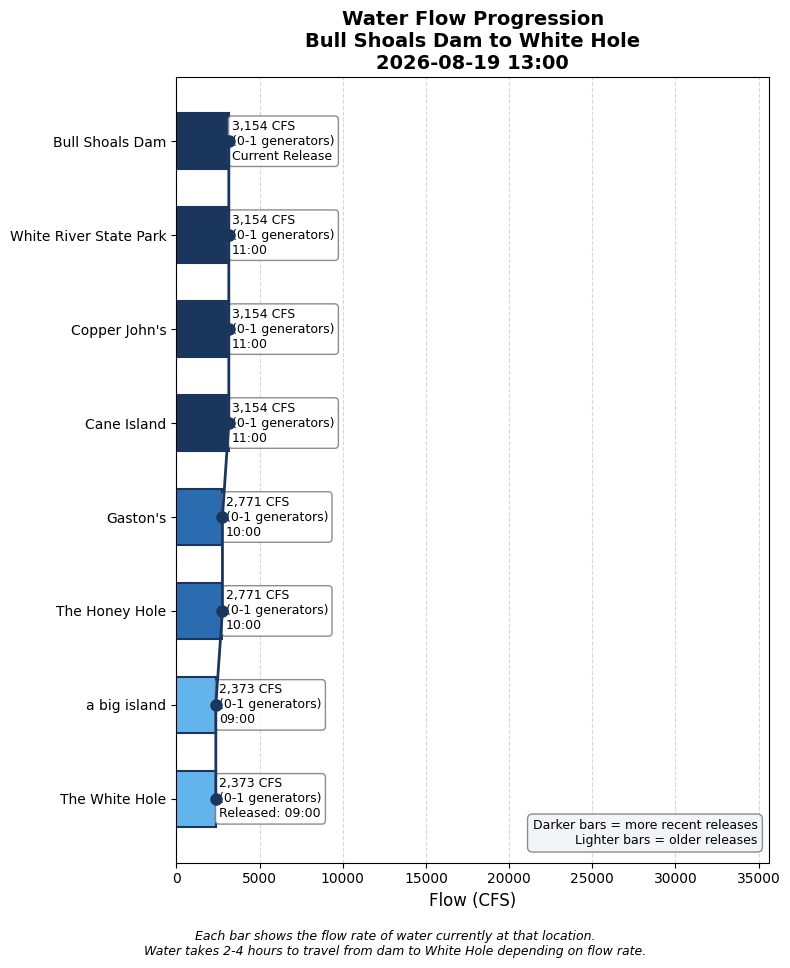
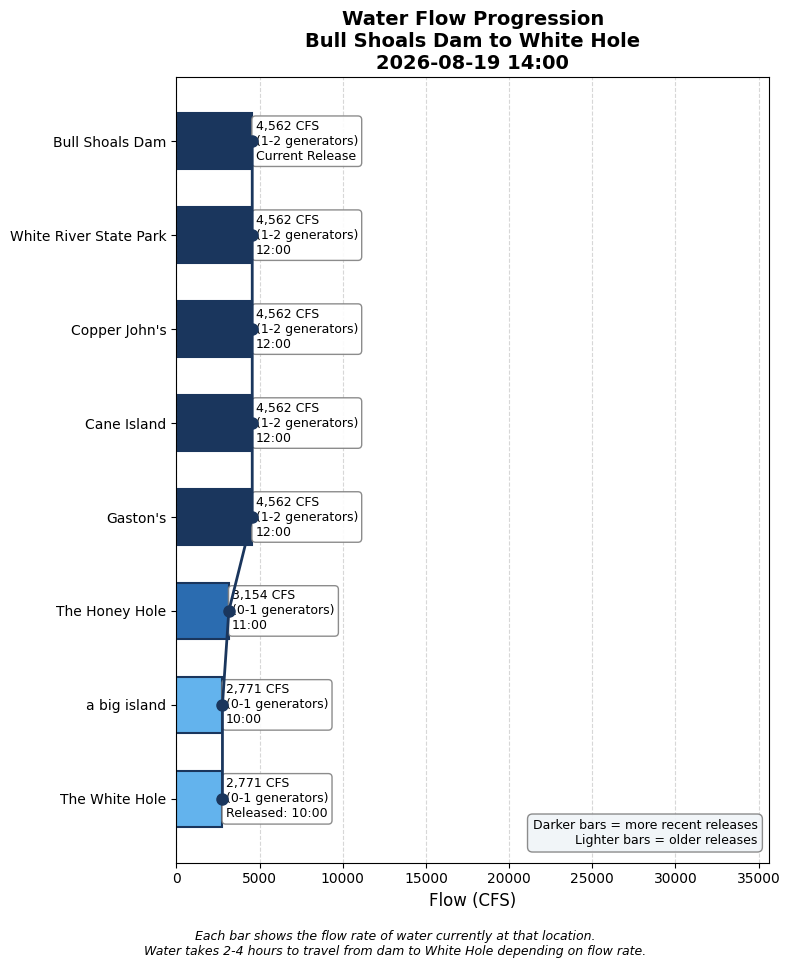
Update water conditions 2026-08-19 14:00

Changed region(s): [[0.2127, 0.093, 0.4557, 0.8678]]

diff --git a/white_hole_conditions.html b/white_hole_conditions.html
@@ -3,7 +3,7 @@
 <head>
     <meta charset="UTF-8">
     <meta name="viewport" content="width=device-width, initial-scale=1.0">
-    <title>White Hole Conditions - 2026-08-19 13:00</title>
+    <title>White Hole Conditions - 2026-08-19 14:00</title>
     <style>
         body {
             font-family: -apple-system, BlinkMacSystemFont, 'Segoe UI', Roboto, sans-serif;
@@ -148,19 +148,19 @@
 </head>
 <body>
     <h1>White Hole Current Conditions</h1>
-    <p class="subtitle">Wednesday, August 19, 2026 at 01:00 PM</p>
+    <p class="subtitle">Wednesday, August 19, 2026 at 02:00 PM</p>
 
     <!-- HEADLINE BANNER -->
     <div class="headline-banner">
         <div class="main-status">⚠ MARGINAL WADING — Use caution</div>
         <div class="forecast-status">⏱ RISING WATER arriving in ~43 minutes</div>
-        <div class="forecast-status" style="margin-top: 5px; opacity: 0.9;">📅 HIGH WATER SCHEDULED — ~3:54 PM</div>
+        <div class="forecast-status" style="margin-top: 5px; opacity: 0.9;">📅 HIGH WATER SCHEDULED — ~4:29 PM</div>
     </div>
 
     <!-- CURRENT CONDITIONS -->
     <div class="current-conditions">
         <h3>Current Conditions at White Hole</h3>
-        <div class="flow-display">2,373 CFS</div>
+        <div class="flow-display">2,771 CFS</div>
         <div class="generator-display">Equivalent to 0-1 generators</div>
         <div class="condition-pills">
             <span class="pill wading">Still Wadable</span>
@@ -189,6 +189,14 @@
                 <tr><td colspan="3" style="padding: 8px 10px; font-size: 0.8em; font-weight: bold; color: #6b46c1; text-transform: uppercase; letter-spacing: 0.05em; background-color: #f3e8ff;">Scheduled (SWPA forecast)</td></tr>
                 
                     <tr style="background-color: #faf5ff; border-left: 4px solid #e53e3e;">
+                        <td style="padding: 10px; font-weight: bold;">5 PM</td>
+                        <td style="padding: 10px;">22,531 CFS<br><small style="color: #666;">(6-7 generators: 22281 generation + 250 min flow)</small></td>
+                        <td style="padding: 10px;">~6:52 PM
+                            <span style="display: inline-block; margin-left: 6px; padding: 2px 8px; border-radius: 12px; font-size: 0.8em; background-color: #fee2e2; color: #991b1b;">No Wading</span>
+                        </td>
+                    </tr>
+                
+                    <tr style="background-color: #faf5ff; border-left: 4px solid #e53e3e;">
                         <td style="padding: 10px; font-weight: bold;">4 PM</td>
                         <td style="padding: 10px;">20,506 CFS<br><small style="color: #666;">(6-7 generators: 20256 generation + 250 min flow)</small></td>
                         <td style="padding: 10px;">~6:01 PM
@@ -212,38 +220,30 @@
                         </td>
                     </tr>
                 
-                    <tr style="background-color: #faf5ff; border-left: 4px solid #e53e3e;">
-                        <td style="padding: 10px; font-weight: bold;">1 PM</td>
-                        <td style="padding: 10px;">7,002 CFS<br><small style="color: #666;">(2-3 generators: 6752 generation + 250 min flow)</small></td>
-                        <td style="padding: 10px;">~3:54 PM
-                            <span style="display: inline-block; margin-left: 6px; padding: 2px 8px; border-radius: 12px; font-size: 0.8em; background-color: #fee2e2; color: #991b1b;">No Wading</span>
-                        </td>
-                    </tr>
-                
             
                     
                 <tr><td colspan="3" style="padding: 8px 10px; font-size: 0.8em; font-weight: bold; color: #2b6cb0; text-transform: uppercase; letter-spacing: 0.05em; background-color: #ebf8ff;">Actual (dam readings)</td></tr>
                 
                     <tr style="background-color: #ebf8ff;">
-                        <td style="padding: 10px; font-weight: bold;">11:00 AM</td>
-                        <td style="padding: 10px;">3,154 CFS<br><small style="color: #666;">(0-1 generators)</small></td>
-                        <td style="padding: 10px;"><span style="color: #2b6cb0;">→ Arrives ~2:44 PM (in 103 min)</span></td>
+                        <td style="padding: 10px; font-weight: bold;">12:00 PM</td>
+                        <td style="padding: 10px;">4,562 CFS<br><small style="color: #666;">(1-2 generators)</small></td>
+                        <td style="padding: 10px;"><span style="color: #2b6cb0;">→ Arrives ~3:23 PM (in 83 min)</span></td>
                     </tr>
                 
                     <tr style="background-color: #ebf8ff;">
-                        <td style="padding: 10px; font-weight: bold;">10:00 AM</td>
-                        <td style="padding: 10px;">2,771 CFS<br><small style="color: #666;">(0-1 generators)</small></td>
-                        <td style="padding: 10px;"><span style="color: #2b6cb0;">→ Arrives ~1:44 PM (in 43 min)</span></td>
+                        <td style="padding: 10px; font-weight: bold;">11:00 AM</td>
+                        <td style="padding: 10px;">3,154 CFS<br><small style="color: #666;">(0-1 generators)</small></td>
+                        <td style="padding: 10px;"><span style="color: #2b6cb0;">→ Arrives ~2:44 PM (in 43 min)</span></td>
                     </tr>
                 
                     <tr style="background-color: #e6fffa;">
-                        <td style="padding: 10px; font-weight: bold;">9:00 AM</td>
-                        <td style="padding: 10px;">2,373 CFS<br><small style="color: #666;">(0-1 generators)</small></td>
+                        <td style="padding: 10px; font-weight: bold;">10:00 AM</td>
+                        <td style="padding: 10px;">2,771 CFS<br><small style="color: #666;">(0-1 generators)</small></td>
                         <td style="padding: 10px;"><span style="color: #319795; font-weight: bold;">← AT WHITE HOLE NOW</span></td>
                     </tr>
                 
                     <tr style="">
-                        <td style="padding: 10px; font-weight: bold;">6:00 AM</td>
+                        <td style="padding: 10px; font-weight: bold;">7:00 AM</td>
                         <td style="padding: 10px;">1,917 CFS<br><small style="color: #666;">(0-1 generators)</small></td>
                         <td style="padding: 10px;"><span style="color: #718096;">passed</span></td>
                     </tr>
@@ -274,9 +274,9 @@
         </summary>
         <div style="padding: 15px;">
             <ul>
-                <li>Latest dam reading: 3,154 CFS at 2026-08-19 11:00</li>
+                <li>Latest dam reading: 4,562 CFS at 2026-08-19 12:00</li>
                 <li>Travel time to White Hole: 3.7 hours at current flow</li>
-                <li>White Hole conditions based on dam reading from: 2026-08-19 09:00</li>
+                <li>White Hole conditions based on dam reading from: 2026-08-19 10:00</li>
             </ul>
         </div>
     </details>
@@ -298,6 +298,13 @@
                     </thead>
                     <tbody>
                         
+                <tr style="border-bottom: 1px solid #eee;">
+                    <td style="padding: 8px;">2026-08-19 12:00</td>
+                    <td style="padding: 8px; text-align: right;">4562</td>
+                    <td style="padding: 8px; text-align: right;">1.4</td>
+                    <td style="padding: 8px; text-align: right;">3.4</td>
+                </tr>
+                
                 <tr style="border-bottom: 1px solid #eee;">
                     <td style="padding: 8px;">2026-08-19 11:00</td>
                     <td style="padding: 8px; text-align: right;">3154</td>
@@ -361,13 +368,6 @@
                     <td style="padding: 8px; text-align: right;">3.7</td>
                 </tr>
                 
-                <tr style="border-bottom: 1px solid #eee;">
-                    <td style="padding: 8px;">2026-08-19 02:00</td>
-                    <td style="padding: 8px; text-align: right;">701</td>
-                    <td style="padding: 8px; text-align: right;">0.2</td>
-                    <td style="padding: 8px; text-align: right;">3.7</td>
-                </tr>
-                
                     </tbody>
                 </table>
             </div>
@@ -375,7 +375,7 @@
         
 
     <div class="timestamp">
-        Data retrieved and processed on 2026-08-19 13:00:18
+        Data retrieved and processed on 2026-08-19 14:00:14
     </div>
 </body>
 </html>
